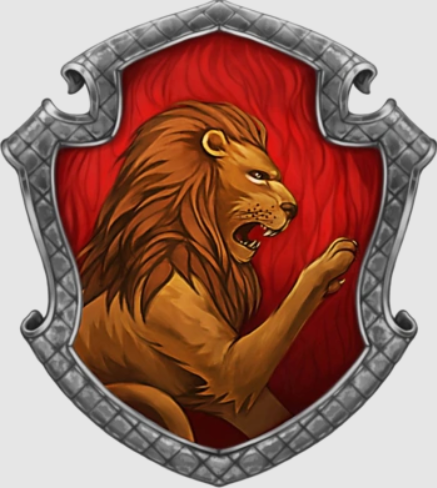
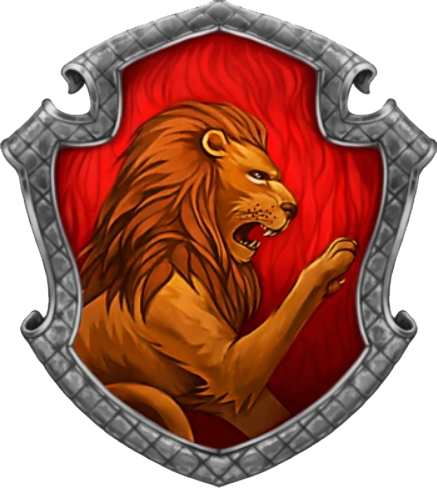
mudando imagens e icones

diff --git a/site/equipe/lufa-lufa.html b/site/equipe/lufa-lufa.html
@@ -5,6 +5,7 @@
     <meta http-equiv="X-UA-Compatible" content="IE=edge">
     <meta name="viewport" content="width=device-width, initial-scale=1.0">
     <title>Lufa-lufa</title>
+    <link rel="shortcut icon" href="../imagens/icon/lufa-lufa.ico">
 
     <link rel="stylesheet" href="../style.css">
 </head>
@@ -15,18 +16,20 @@
         <a href="../index.html">
             <div class="btnVoltar">Home</div>
         </a>
+
+        <h1 class="casa-titulo">Lufa-Lufa</h1>  
         
-        <h1 class="h1-newt">Newton Scamander</h1>  
+        <h2 class="h1-newt">Newton Scamander</h2>  
 
         <div class="container-ul">
             <div class="col">
                 <p class="container-ul-citacao">
-                    "Visitei grutas, tocas e ninhos em cinco continentes, observei os hábitos curiosos dos animais mágicos em centenas de países, testemunhei seus poderes, ganhei sua confiança e, em certa ocasião, espantei-os com minha chaleira na viagem"
+                    "Visitei grutas, tocas e ninhos em cinco continentes, observei os hábitos curiosos dos animais mágicos em centenas de países, testemunhei seus poderes, ganhei sua confiança e, em certa ocasião, espantei-os com minha chaleira na viagem" - Newt Scamander
                 </p>
 
                 <div class="container-ul-p">
                     <p>
-                        Newton Artemis Fido "Newt" Scamander, Ordem de Merlin, Segunda Classe, (n. 24 de fevereiro, 1897) é um bruxo inglês, famoso Magizoologista e autor de Animais Fantásticos e Onde Habitam. Desde cedo, Newt desenvolveu um certo interesse em Criaturas Mágicas, influenciado pela criação de hipogrifos da mãe. Ele frequentou a Escola de Magia e Bruxaria de Hogwarts, onde foi classificado para a Casa Lufa-Lufa. Enquanto esteve na escola, ele foi condenado à expulsão, mas seu instrutor e professor de Defesa Contra as Artes das Trevas, Alvo Dumbledore, saiu em sua defesa.
+                        Newton Artemis Fido "Newt" Scamander, Ordem de Merlin, Segunda Classe, (n. 24 de fevereiro, 1897) é um bruxo inglês, famoso Magizoologista e autor de Animais Fantásticos e Onde Habitam. Desde cedo, Newt desenvolveu um certo interesse em Criaturas Mágicas, influenciado pela criação de hipogrifos da mãe. Ele frequentou a Escola de Magia e Bruxaria de Hogwarts, onde foi classificado para a Casa Lufa-Lufa. Enquanto esteve na escola, ele foi condenado à expulsão, mas seu instrutor e professor de Defesa Contra as Artes das Trevas, Alvo Dumbledore, saiu em sua defesa. 
                     </p>
                 </div>
             </div>

diff --git a/site/style.css b/site/style.css
@@ -129,11 +129,11 @@ h1{
     display: flex;
     z-index: 2;
     position: relative;
-    left: -30px;
+    left: -35px;
     transition: 0.5s ease-in-out;
 }
 .img:hover{
-    transform: scale(1.05);
+    transform: scale(1.08);
 }
 .casa-nome{
     position: absolute;
@@ -382,24 +382,31 @@ div#inicio-sobre {
 /* .container-lufa-lufa{
     border: 1px solid red;
 } */
-
-.container-ul{
+.casa-titulo{
+    font-weight: 400;
+    padding: 10px 0;
     margin: 20px 0;
-    /* border: 1px solid blue; */
-    max-width: 700px;
+    border-top: 1px solid #8d7b3b;
+    border-bottom: 1px solid #8d7b3b;
+    text-align: center;
 }
 
 .h1-newt{
     text-transform: uppercase;
+    padding-left: 20px;
+    font-size: 2rem;
 }
 
 .container-ul{
-    display: flex;
+    /* border: 1px solid red; */
+    display: flex;    
+    max-width: 740px; 
+    margin: 20px 0;
     justify-content: space-between ;
 }
 
 .container-ul img{
-    width: 270px;
+    width: 315px;
     border-radius: 8px;
 }
 
@@ -407,20 +414,23 @@ div#inicio-sobre {
     font-style: italic;
     font-weight: 400;
     font-family: 'Segoe UI', sans-serif;
-    max-width: 400px;
+    max-width: 380px;
     margin-left: 20px;
     font-size: 15px;
+    text-align: justify;
     line-height: 150%;
+    /* border: 1px solid red; */
 }
 
 .container-ul-p{
     margin-top: 20px;
     font-weight: 400;
     font-family: 'Segoe UI', sans-serif;
-    max-width: 400px;
+    max-width: 380px;
     margin-left: 20px;
     font-size: 15px;
     line-height: 150%;
+    text-align: justify;
 }
 
 

diff --git a/site/index.html b/site/index.html
@@ -5,6 +5,7 @@
     <meta http-equiv="X-UA-Compatible" content="IE=edge">
     <meta name="viewport" content="width=device-width, initial-scale=1.0">
     <title>Hogwarts - Casas comunais</title>
+    <link rel="shortcut icon" href="./imagens/icon/hogwarts.ico">
     <link rel="stylesheet" href="style.css">
 </head>
 <body class="body-home">

diff --git a/site/equipe/sonserina.html b/site/equipe/sonserina.html
@@ -5,6 +5,7 @@
     <meta http-equiv="X-UA-Compatible" content="IE=edge">
     <meta name="viewport" content="width=device-width, initial-scale=1.0">
     <title>Sonserina</title>
+    <link rel="shortcut icon" href="../imagens/icon/sonserina.ico">
 
     <link rel="stylesheet" href="../style.css">
 </head>

diff --git a/site/equipe/corvinal.html b/site/equipe/corvinal.html
@@ -5,6 +5,7 @@
     <meta http-equiv="X-UA-Compatible" content="IE=edge">
     <meta name="viewport" content="width=device-width, initial-scale=1.0">
     <title>Corvinal</title>
+    <link rel="shortcut icon" href="../imagens/icon/corvinal.ico">
 
     <link rel="stylesheet" href="../style.css">
 </head>

diff --git a/site/equipe/grifinoria.html b/site/equipe/grifinoria.html
@@ -6,6 +6,8 @@
     <meta name="viewport" content="width=device-width, initial-scale=1.0">
     <title>Grifinória</title>
 
+    <link rel="shortcut icon" href="../imagens/icon/grifinoria.ico">
+
     <link rel="stylesheet" href="../style.css">
 </head>
 <body>
